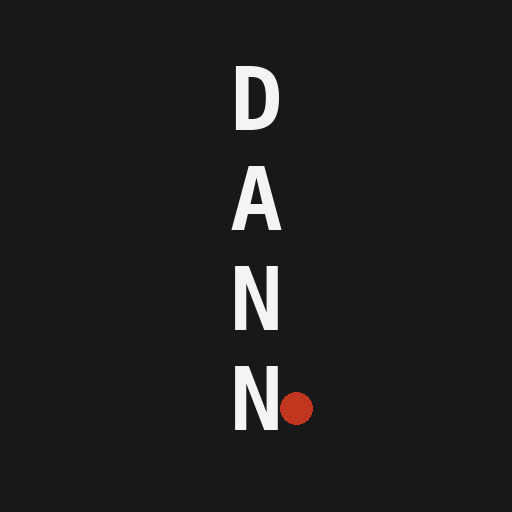
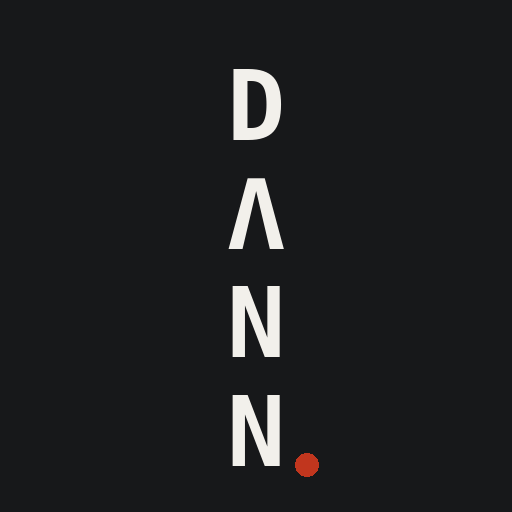
Add files via upload

Changed region(s): [[0.4375, 0.3125, 0.625, 0.9375], [0.4375, 0.125, 0.5625, 0.2812]]

diff --git a/privatnost.html b/privatnost.html
@@ -1,0 +1,72 @@
+<!DOCTYPE html>
+<html lang="sr">
+<head>
+<meta charset="UTF-8">
+<meta name="viewport" content="width=device-width, initial-scale=1.0">
+<meta name="color-scheme" content="light only">
+<meta name="robots" content="noindex, follow">
+<title>Politika privatnosti | DANN.web.workshop</title>
+<link rel="preconnect" href="https://fonts.googleapis.com">
+<link href="https://fonts.googleapis.com/css2?family=Space+Grotesk:wght@500;600;700&family=Inter:wght@400;500;600&family=JetBrains+Mono:wght@400;500;600&display=swap" rel="stylesheet">
+<style>
+  :root { --bg:#FAF8F3; --card:#FFFFFF; --ink:#1C1C1A; --ink-soft:#63615C; --line:#E6E2D8; --accent:#C1361E; }
+  * { box-sizing: border-box; }
+  body { margin:0; background:var(--bg); color:var(--ink); font-family:'Inter',sans-serif; line-height:1.7; }
+  .page { max-width: 720px; margin: 0 auto; padding: 60px 24px 100px; }
+  h1, h2 { font-family: 'Space Grotesk', sans-serif; font-weight: 600; }
+  h1 { font-size: 1.9rem; margin-bottom: 8px; }
+  .datum { font-family:'JetBrains Mono',monospace; font-size:12px; color:var(--ink-soft); margin-bottom: 40px; }
+  h2 { font-size: 1.15rem; margin: 40px 0 12px; }
+  p, li { font-size: .96rem; color: var(--ink-soft); }
+  ul { padding-left: 20px; }
+  li { margin-bottom: 6px; }
+  a { color: var(--accent); }
+  .kontakt-box { background: var(--card); border: 1px solid var(--line); border-radius: 10px; padding: 20px 22px; margin-top: 40px; font-size: .92rem; }
+</style>
+</head>
+<body>
+<div class="page">
+
+  <h1>Politika privatnosti</h1>
+  <p class="datum">Poslednja izmena: septembar 2026.</p>
+
+  <p>DANN.web.workshop poštuje Vašu privatnost. Ova stranica objašnjava koje podatke prikupljamo preko kontakt forme i kako ih koristimo — jednostavno, bez pravnog žargona.</p>
+
+  <h2>Koje podatke prikupljamo</h2>
+  <p>Kada popunite kontakt formu na ovom sajtu, prikupljamo samo ono što nam sami pošaljete:</p>
+  <ul>
+    <li>Ime</li>
+    <li>Email adresu</li>
+    <li>Telefon (ako ga unesete — nije obavezno)</li>
+    <li>Sadržaj poruke koju napišete</li>
+  </ul>
+
+  <h2>Kako koristimo Vaše podatke</h2>
+  <p>Vaš email i ostali podaci koriste se <strong>isključivo</strong> da bismo Vam odgovorili na upit koji ste poslali. To je sve.</p>
+  <p>Ne koristimo Vaš email za slanje reklama, newslettera, ili bilo šta osim direktnog odgovora na Vašu poruku. Ne prodajemo, ne iznajmljujemo, i ne delimo Vaše podatke sa trećim stranama.</p>
+
+  <h2>Gde se podaci čuvaju</h2>
+  <p>Poruke poslate preko kontakt forme čuvaju se u internoj tabeli (Google Sheets), dostupnoj samo nama. Ne koristimo spoljne servise za marketing ili analitiku Vaših ličnih podataka.</p>
+
+  <h2>Koliko dugo čuvamo podatke</h2>
+  <p>Poruke čuvamo dok su relevantne za komunikaciju sa Vama. Ako želite da Vaši podaci budu obrisani, samo nam pošaljite zahtev — vidite kontakt ispod.</p>
+
+  <h2>Kolačići (cookies)</h2>
+  <p>Ovaj sajt ne koristi kolačiće za praćenje ili reklamiranje.</p>
+
+  <h2>Vaša prava</h2>
+  <p>U svakom trenutku možete da tražite:</p>
+  <ul>
+    <li>Uvid u podatke koje imamo o Vama</li>
+    <li>Ispravku netačnih podataka</li>
+    <li>Brisanje Vaših podataka</li>
+  </ul>
+
+  <div class="kontakt-box">
+    <strong>Pitanja o privatnosti?</strong><br>
+    Pišite nam na <a href="mailto:dann.web.workshop@gmail.com">dann.web.workshop@gmail.com</a> — odgovaramo lično, bez posrednika.
+  </div>
+
+</div>
+</body>
+</html>

diff --git a/kontakt.html b/kontakt.html
@@ -119,6 +119,12 @@
           <label for="poruka" data-en="Message">Poruka</label>
           <textarea id="poruka" placeholder="Nekoliko reči o Vašem biznisu i šta Vam je potrebno..." data-en-placeholder="A few words about your business and what you need..."></textarea>
         </div>
+        <div class="form-group">
+          <label style="display:flex;align-items:flex-start;gap:8px;font-size:13px;font-weight:400;">
+            <input type="checkbox" id="privacyConsent" required style="margin-top:3px;flex-shrink:0;width:auto;padding:0;border:none;">
+            <span data-en="I agree with the &lt;a href=&quot;privatnost.html&quot; style=&quot;color:var(--accent);&quot;&gt;Privacy Policy&lt;/a&gt; — email is used only to respond to this inquiry.">Slažem se sa <a href="privatnost.html" style="color:var(--accent);">Politikom privatnosti</a> — email se koristi isključivo za odgovor na ovaj upit.</span>
+          </label>
+        </div>
         <button type="submit" class="btn-submit" data-en="Send message">Pošaljite upit</button>
       </form>
       <div class="confirmation" id="confirmationMsg" data-en="Thanks for your message! We'll get back to you shortly at the contact you provided.">Hvala na poruci! Javljamo se uskoro na naveden kontakt.</div>
@@ -129,7 +135,10 @@
 <footer>
   <div class="container" style="display:flex; justify-content:space-between; align-items:center; flex-wrap:wrap; gap:12px;">
     <div class="brand" style="font-size:16px;">DΛNN<span class="dot">.</span>web<span class="dot">.</span>workshop</div>
-    <div data-en="© 2026 DANN.web.workshop. Custom websites for small businesses and independent professionals.">© 2026 DANN.web.workshop. Izrada sajtova za mala preduzeća.</div>
+    <div style="display:flex; align-items:center; gap:18px; flex-wrap:wrap;">
+      <div data-en="© 2026 DANN.web.workshop. Custom websites for small businesses and independent professionals.">© 2026 DANN.web.workshop. Izrada sajtova za mala preduzeća.</div>
+      <a href="privatnost.html" data-en="Privacy Policy" style="color:var(--text-soft);font-size:12px;">Politika privatnosti</a>
+    </div>
   </div>
 </footer>
 
